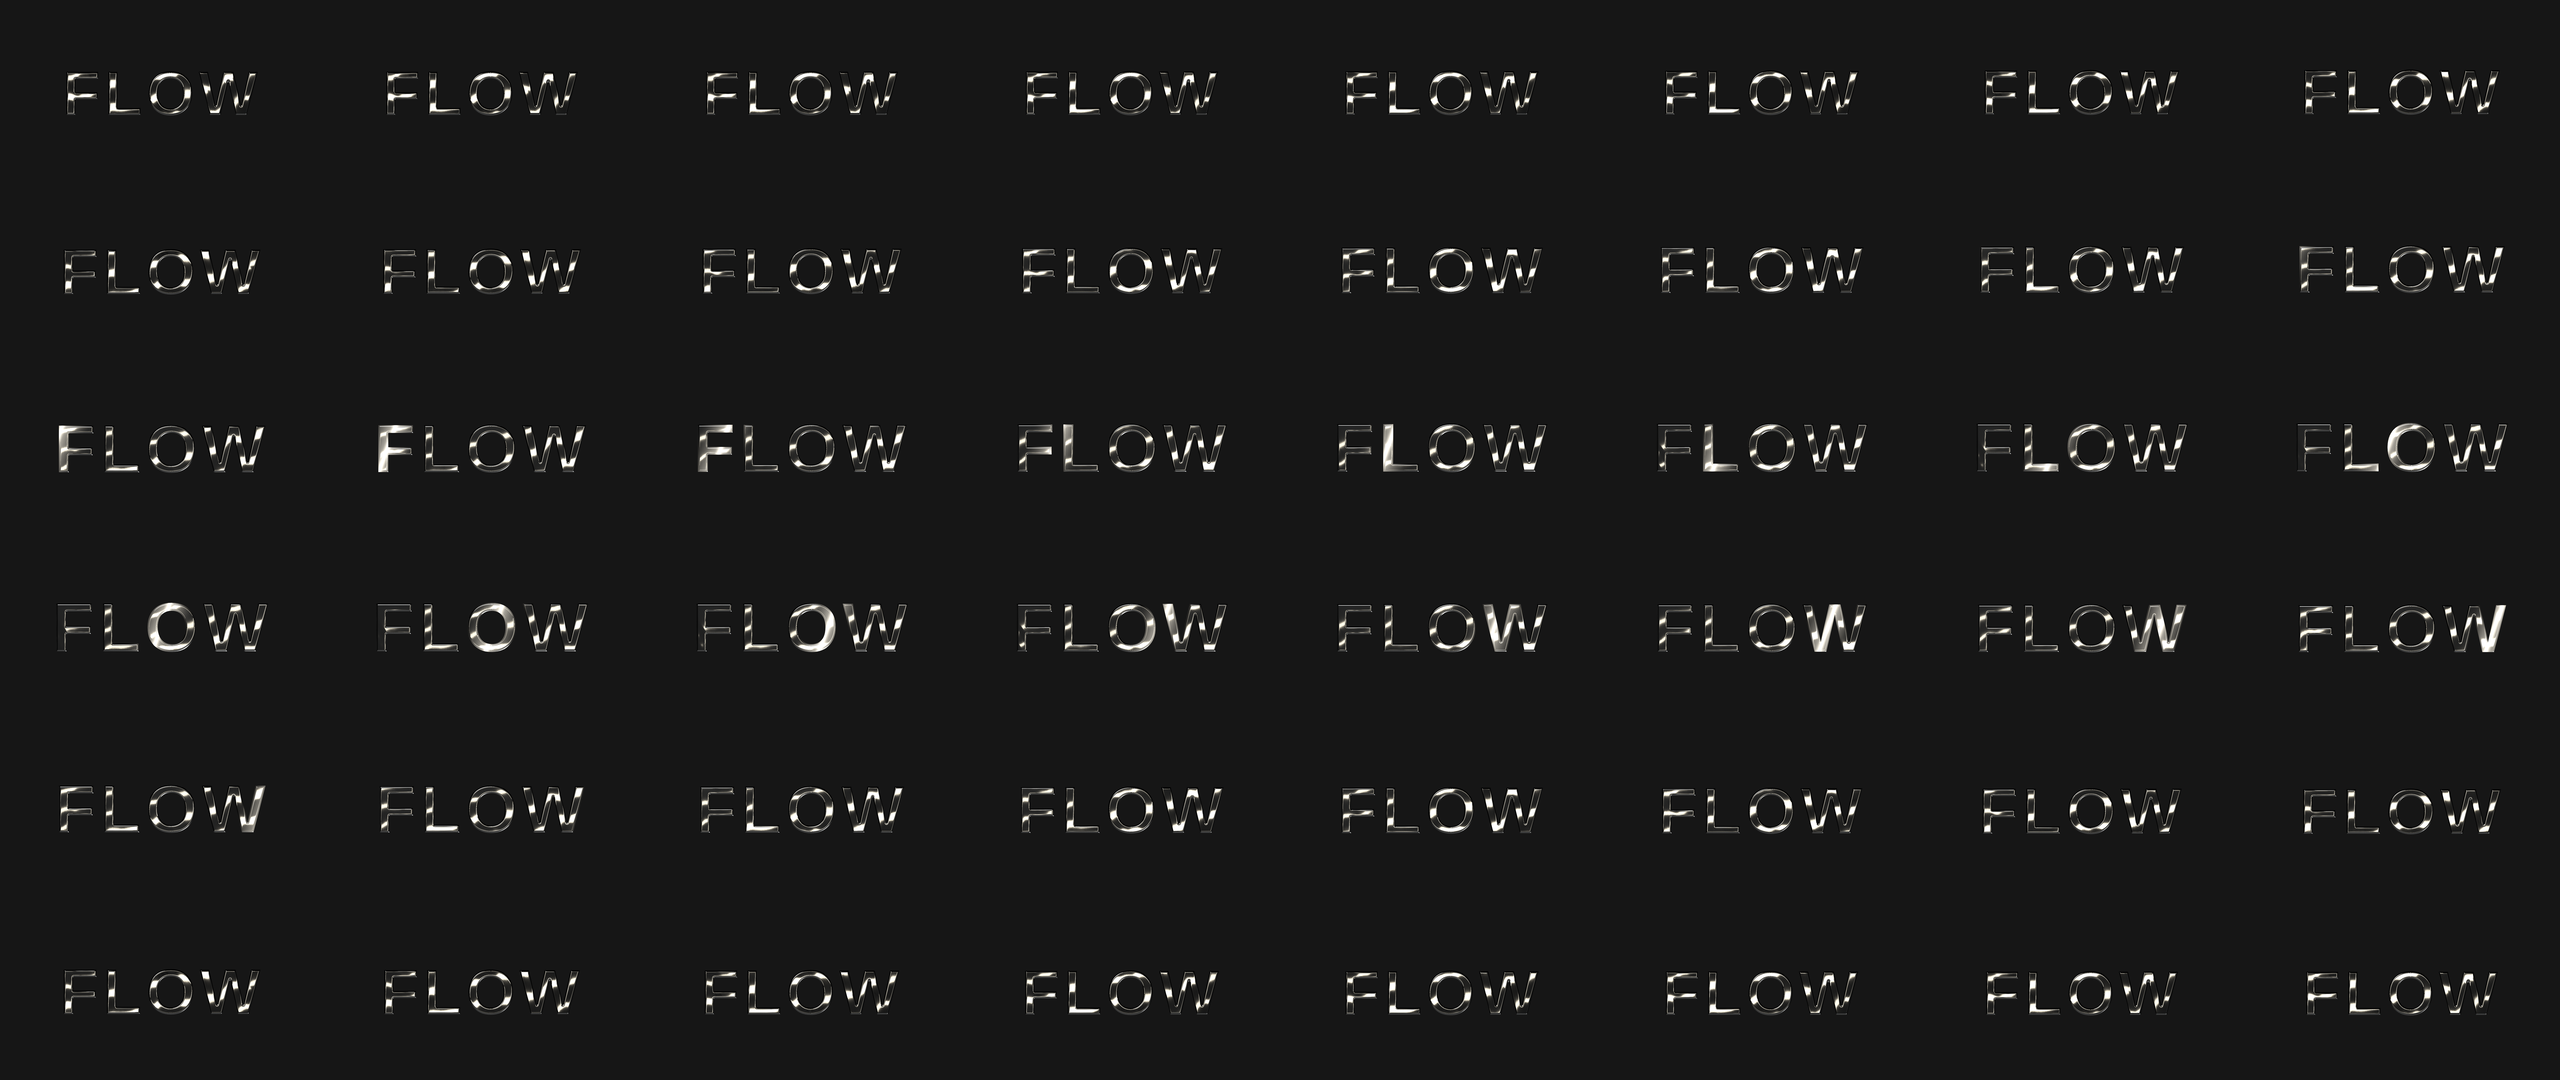
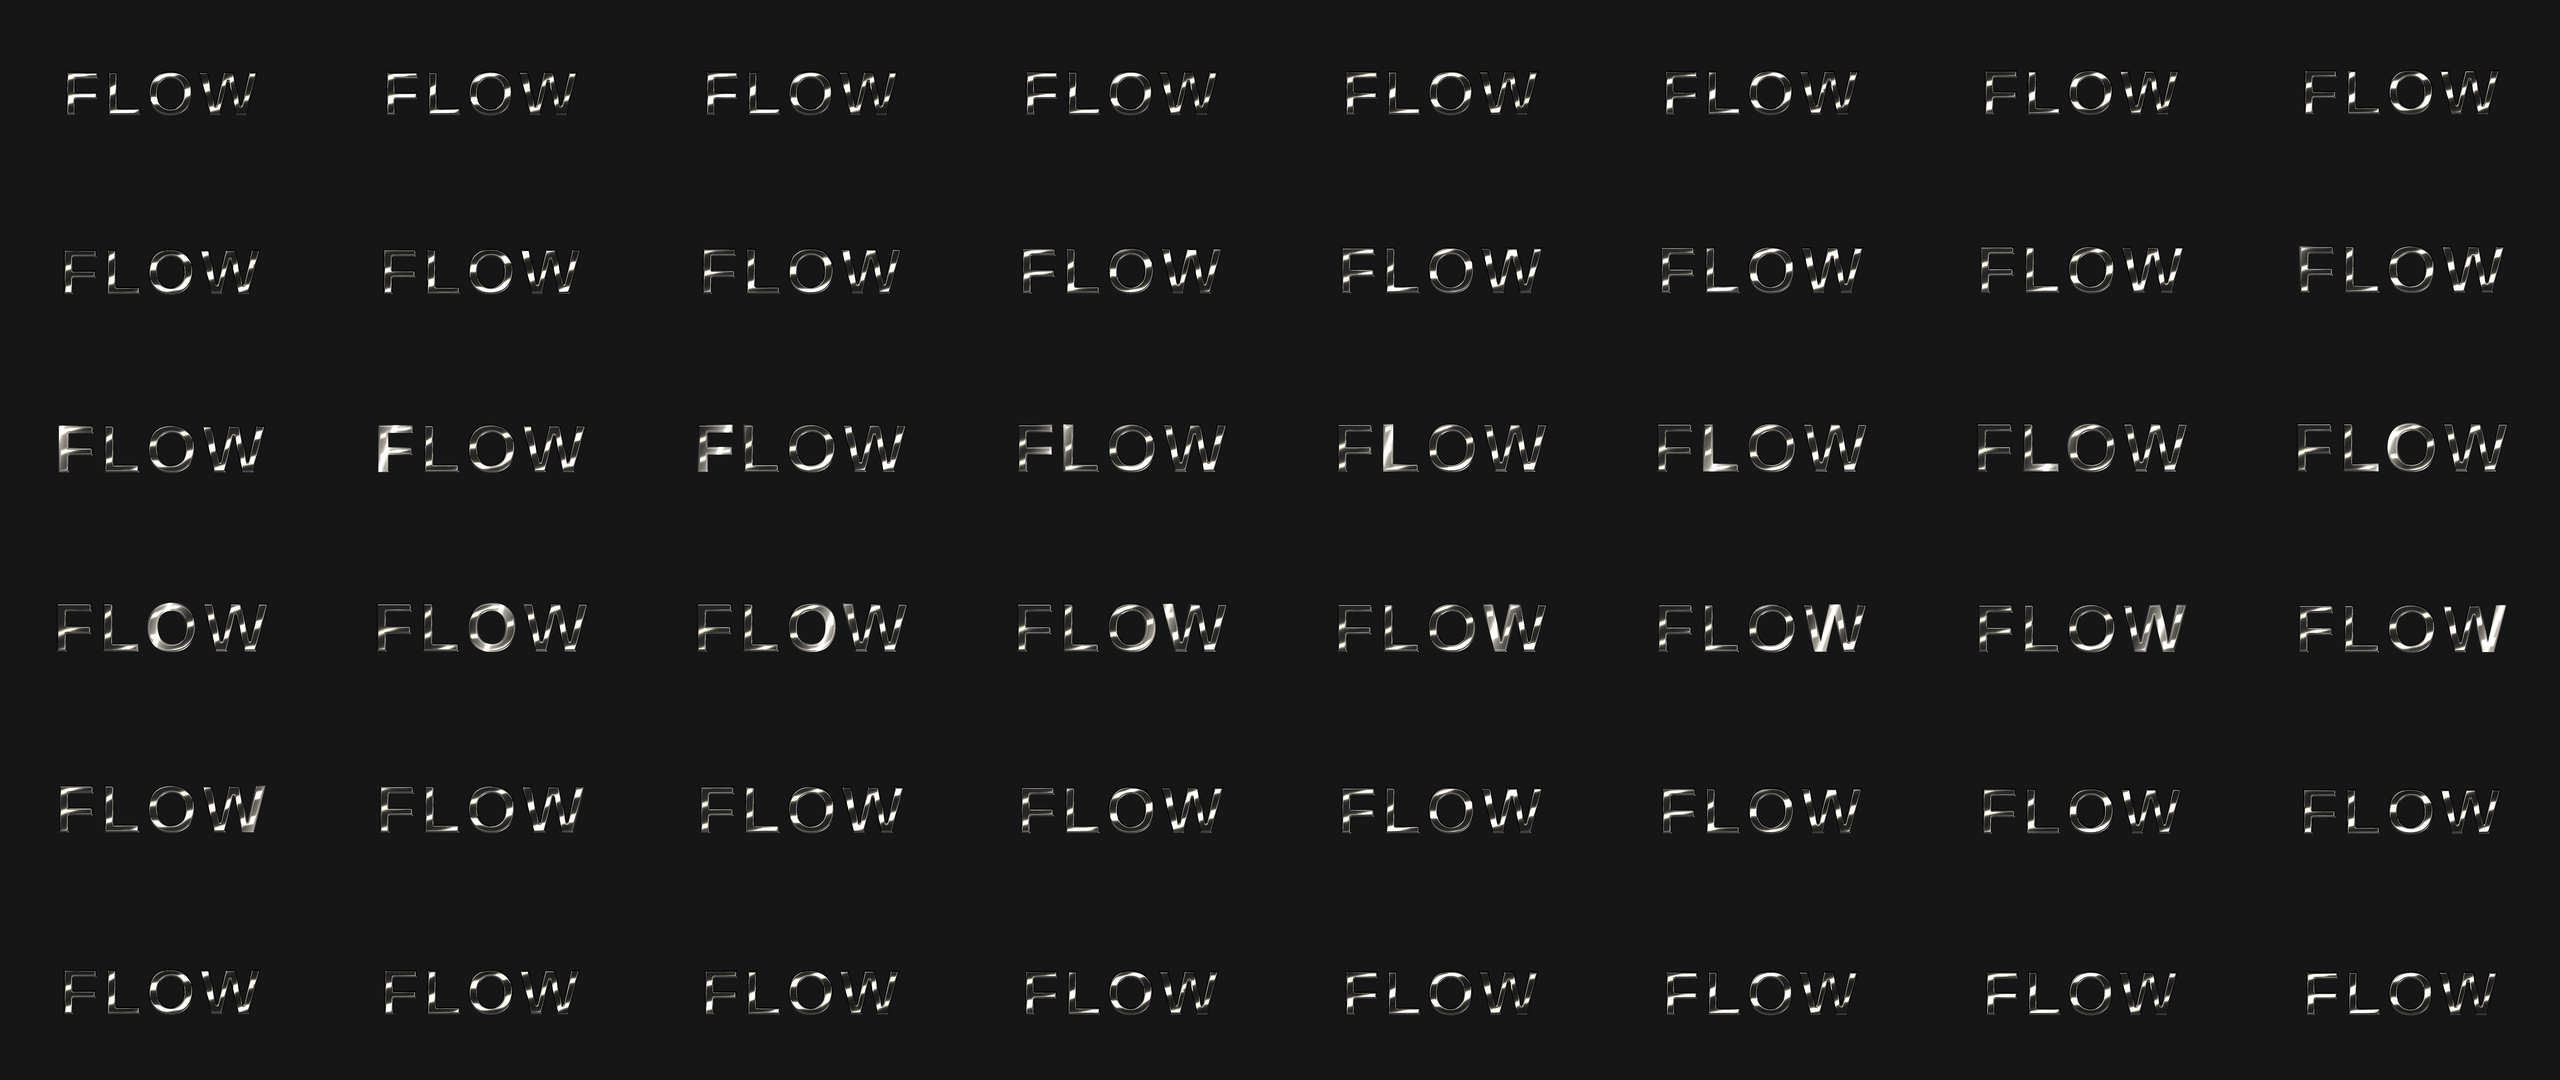
Size a material's finish by its Scale
A material's textures are sized by its Scale, which applying a material sets from the frame's width, but the ridges and wear of its finish used raw pixels. A metal applied in a 4K frame therefore had the same texture as at 1080p and a finish half the size. The finish now follows Scale like the rest, drawn for the default of 180 pixels, so the default is unchanged and the same material looks alike at every frame size. The one showcase preview that uses a finish at another Scale is regenerated, with the preview revisions.

diff --git a/docs/reference.md b/docs/reference.md
@@ -574,7 +574,7 @@ library's metal looks take the strips, Brush angle 65, Ridges 0.6 and Imperfecti
 (Polished, Satin, Matte, Brushed) stays. Projects saved earlier keep the studio
 and finish they were saved with. Library samples of strip-lit metals are still
 rendered in the plain studio, because on the round sample the strips show as a
-small striped patch.
+small striped patch. Both are sized by the material's **Scale**, like its other textures (drawn for the default of 180 pixels), so a material applied in a larger frame, where Scale is larger, keeps the same look.
 
 **Reflect the shot** (material inspector) connects the footage behind the layer to
 the material's optional **Environment** input, so the surface sits in the shot
